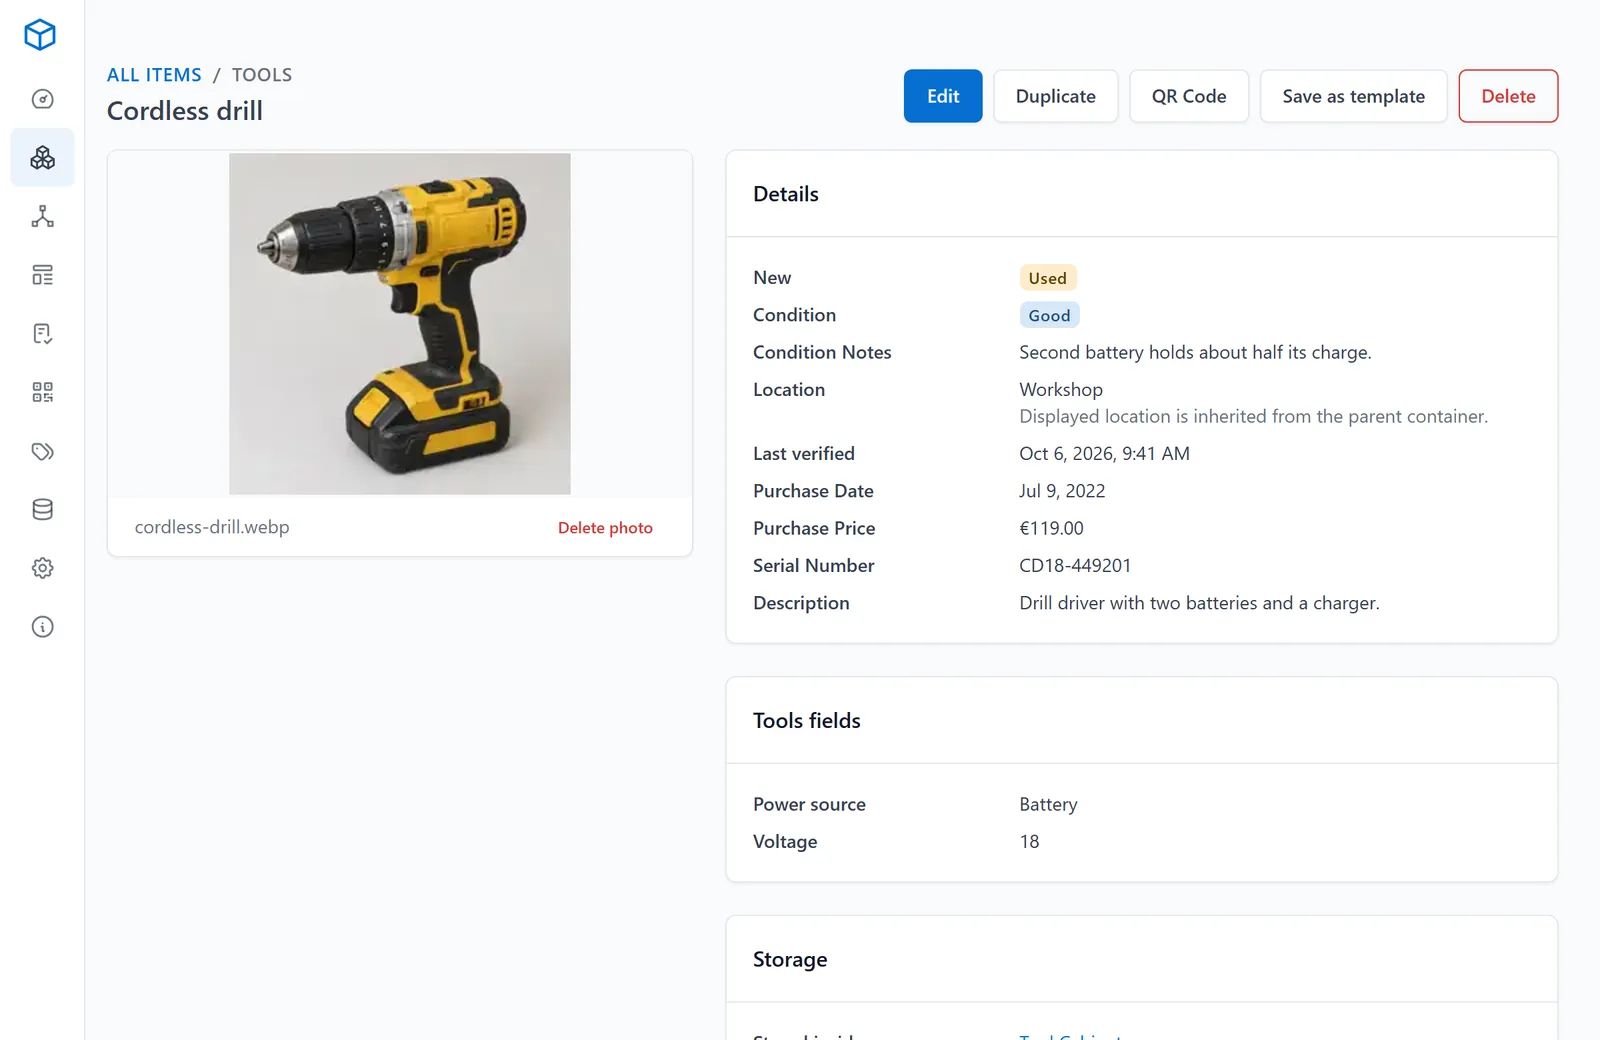
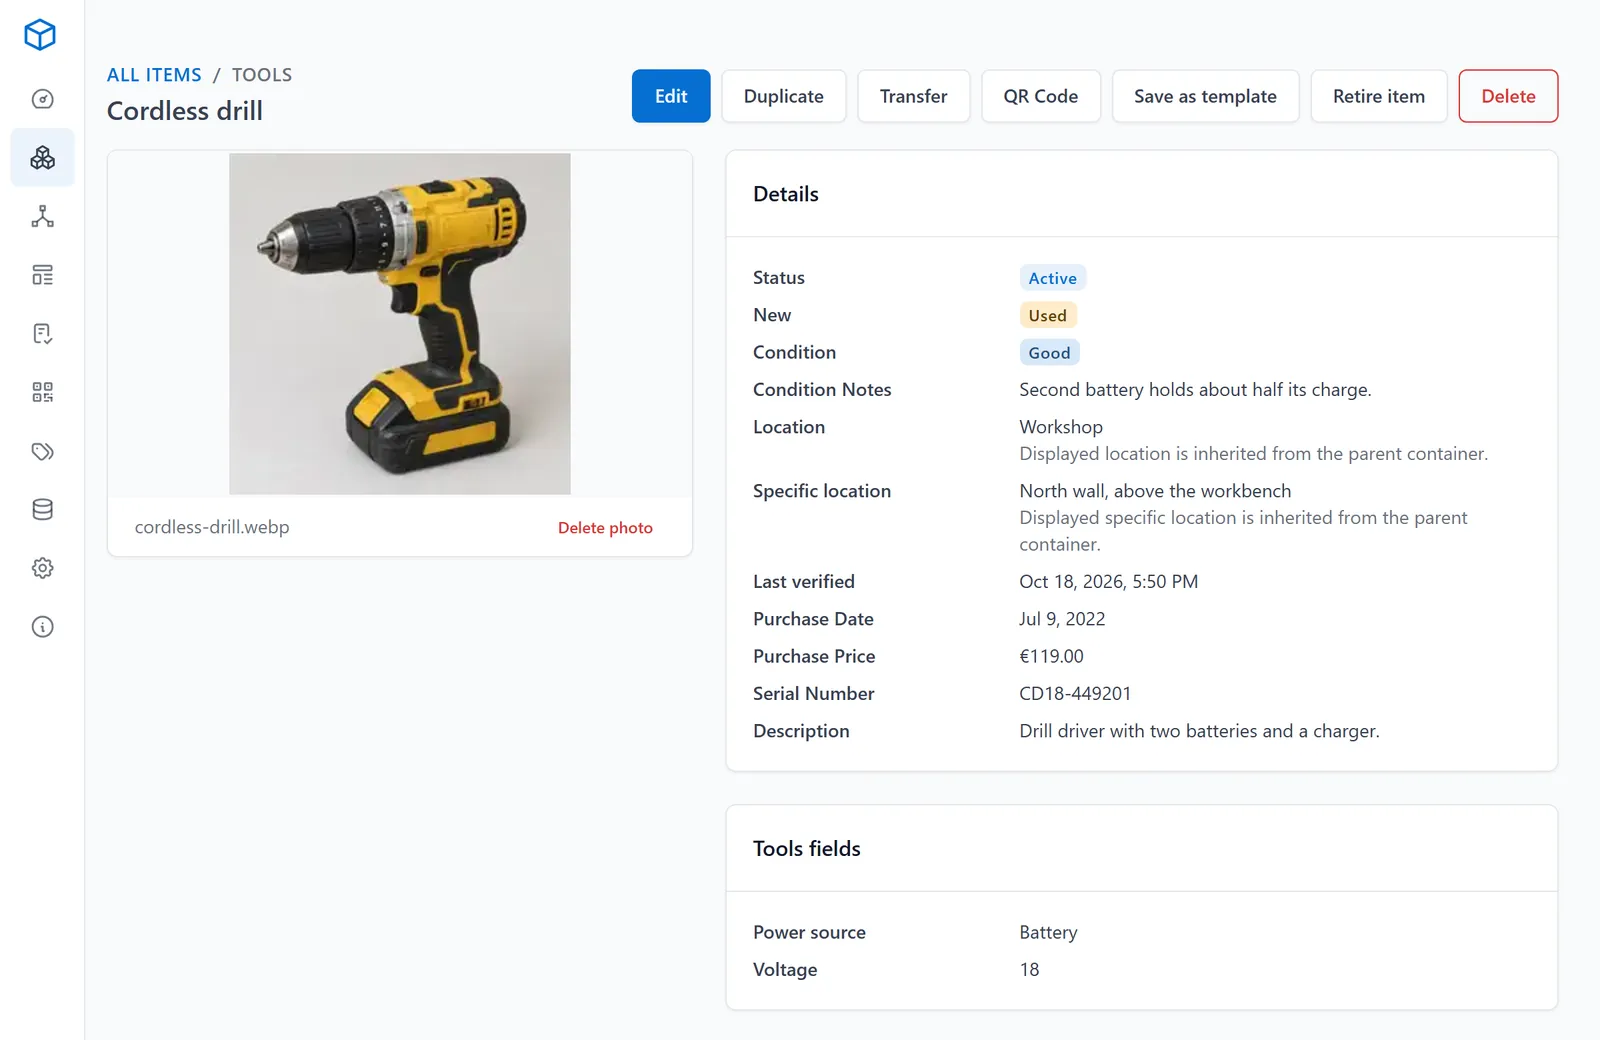
Recapture the landing screenshots with the Specific location (#42)

diff --git a/docs/changes/2026-10-18-specific-location.md b/docs/changes/2026-10-18-specific-location.md
@@ -59,4 +59,7 @@ See `docs/features/specific-location.md`.
   placeholder changed in the specs that use it. An earlier full run had one failure in
   `condition-grading.spec.js` (the folded sidebar intercepted a click after the pointer was left at
   the page corner) that passed on its own and in the final full run.
-- Landing screenshots were not recaptured.
+- `npm run landing:screenshots` recaptured the item list, item details, search, hierarchy, and phone
+  screenshots in both languages from the demo, which now shows specific locations;
+  `test/landing.test.js` (apart from the two Windows guide failures above) and
+  `test/e2e/landing.spec.js` with `test/e2e/guide.spec.js` (47 passed) accept them.
